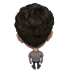
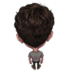
Novas fotos do player com contorno.

diff --git a/src/labirinto.py b/src/labirinto.py
@@ -26,7 +26,7 @@ class Labirinto:
         
         # Carregamento único das imagens, economizando CPU e processamento
         self.imagens_player = {
-            "frente": pygame.image.load(os.path.join(DIR_PATH, "player", "railsao_frente_p.png")).convert_alpha(),
+            "frente": pygame.image.load(os.path.join(DIR_PATH, "player", "railsao_frente.png")).convert_alpha(),
             "costas": pygame.image.load(os.path.join(DIR_PATH, "player", "railsao_costas.png")).convert_alpha(),
             "direita": pygame.image.load(os.path.join(DIR_PATH, "player", "railsao_direita.png")).convert_alpha(),
             "esquerda": pygame.image.load(os.path.join(DIR_PATH, "player", "railsao_esquerda.png")).convert_alpha()

diff --git a/README.md b/README.md
@@ -36,9 +36,9 @@ Biblioteca para geração da matriz
 - [🔘] Tela de fim de jogo
 - [✔]  Lançar flecha, apertando botão "Enter"
 - [✔] Coletar ouro
-- [❌] Matar Wumbus
+- [✔] Matar Wumbus
 - [❌] Verificar regras para sair do labirinto, e adequar o código a essas regras. 
-- [❌] Cair no buraco e morrer
+- [✔] Cair no buraco e morrer
 - [❌] Teletransporte do morcego
 - [🔘] Melhorar imagens
 - [🔘] Corrigir áudios ao pisar no bloco
